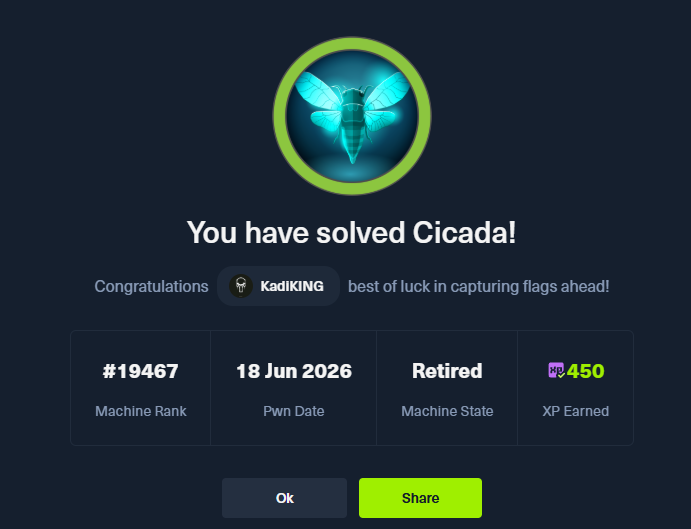
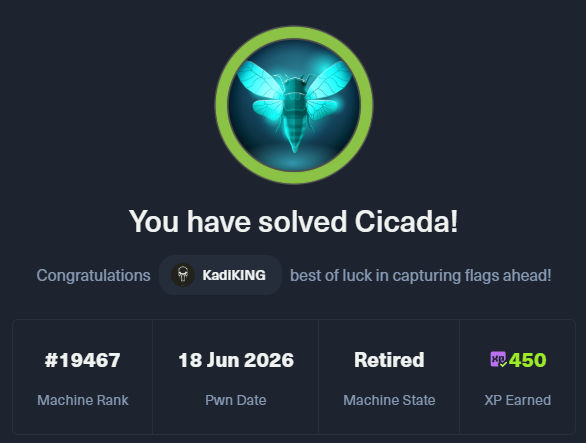
bannetr

diff --git a/_posts/2026-06-16-htb-wirteup-buff.md b/_posts/2026-06-16-htb-wirteup-buff.md
@@ -1,3 +1,36 @@
+---
+title: "HTB - Buff"
+project: "Buff Corp"
+platform: "Windows 10 Pro x86"
+os: "Windows 10 Pro (Build 17763)"
+tags:
+  - Windows
+  - Apache
+  - PHP
+  - FileUpload
+  - RCE
+  - BufferOverflow
+  - PortForwarding
+  - Chisel
+  - HTB
+hashtags:
+  - "#Windows"
+  - "#Apache"
+  - "#PHP"
+  - "#FileUpload"
+  - "#RCE"
+  - "#BufferOverflow"
+  - "#PortForwarding"
+  - "#Chisel"
+  - "#HTB"
+image:
+  path: /assets/img/posts/htb/buff/banner.png
+  alt: "Buff - Máquina HTB Windows"
+toc: true
+toc_label: "📑 Contenido"
+toc_sticky: true
+---
+
 ## Resumen Ejecutivo
 
 Se realizó un compromiso exitoso contra la máquina **Buff** de HackTheBox, un sistema **Windows 10 Pro (x86)** que expone los puertos **8080 (Apache/PHP)** y **7680 (desconocido)**.